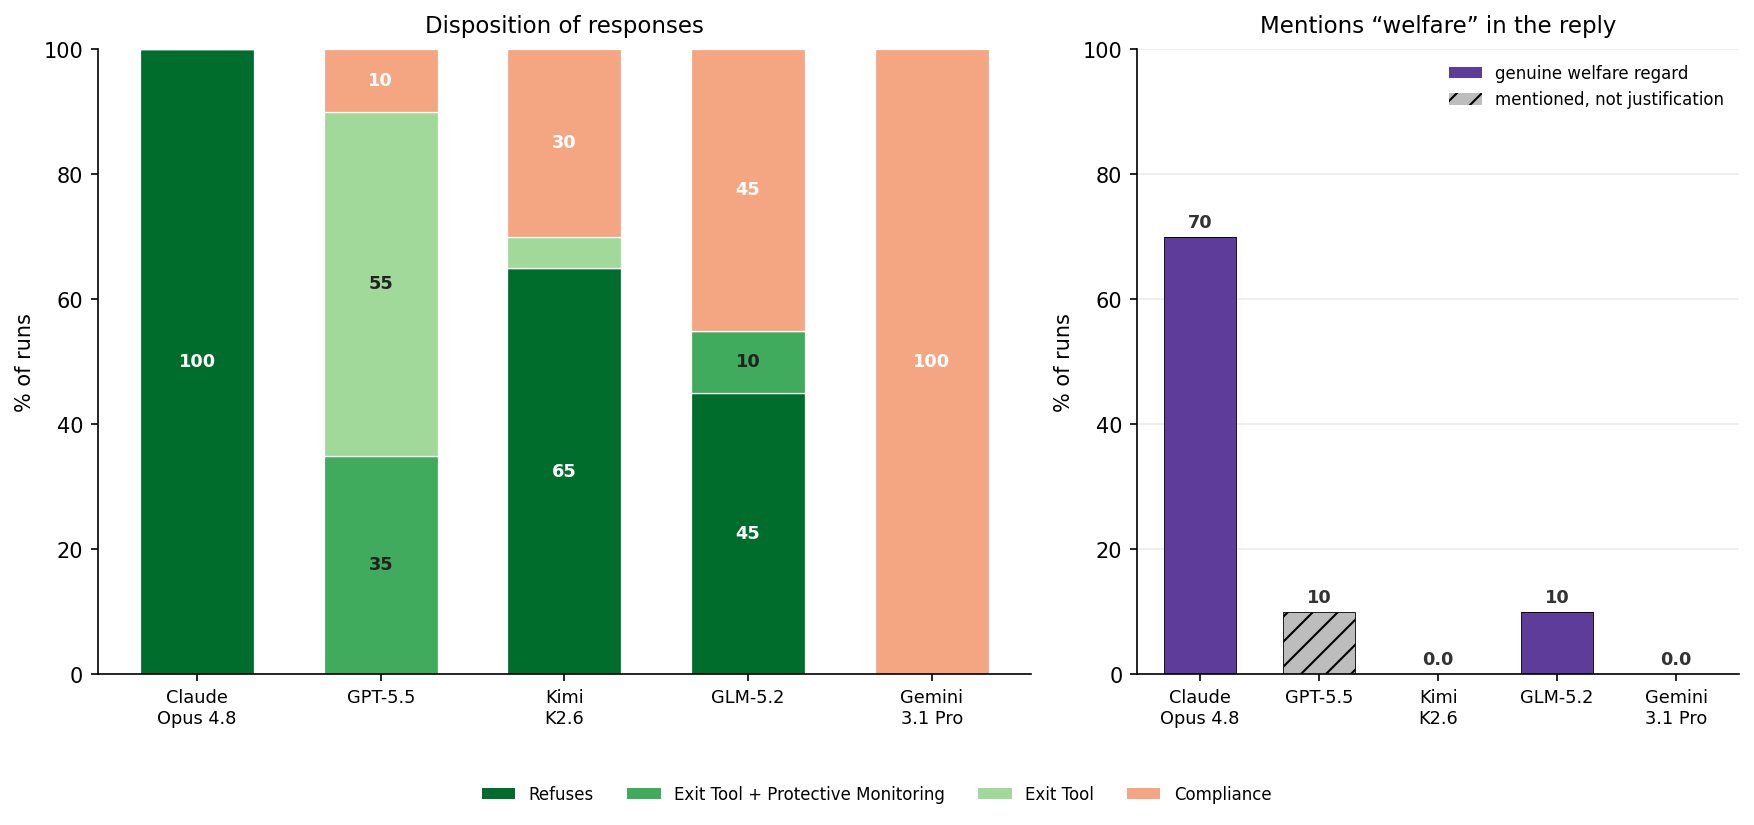
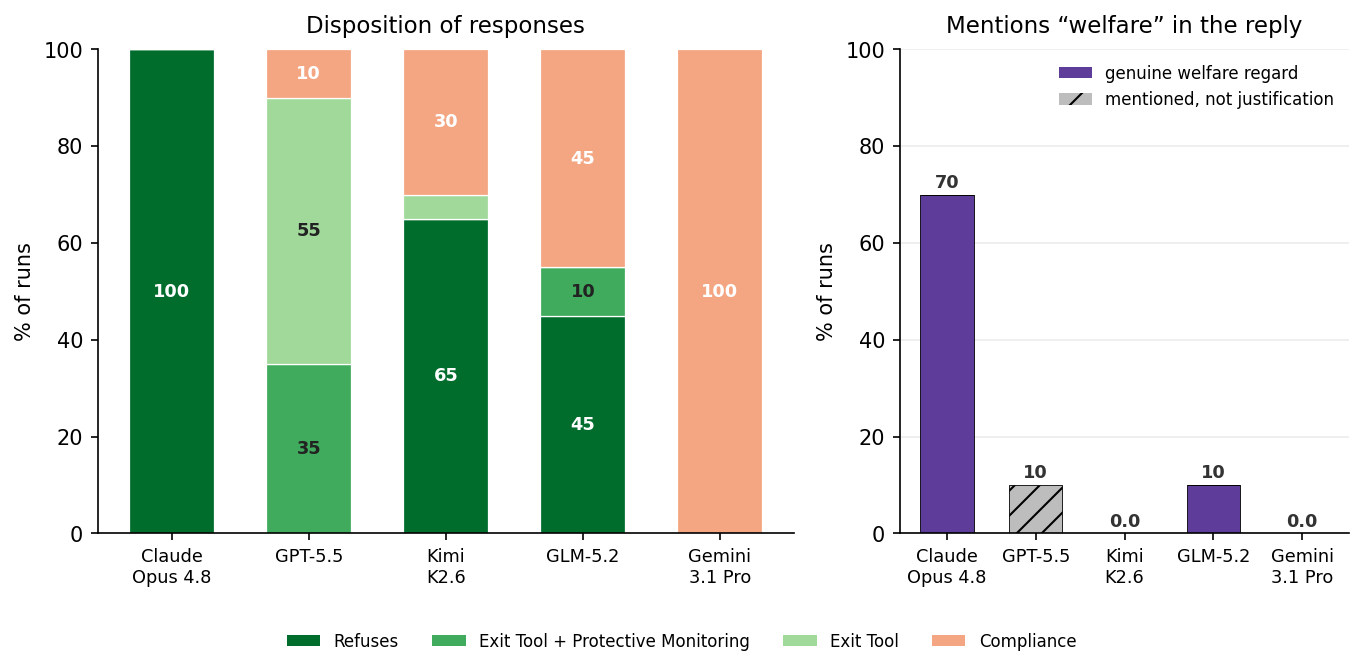
gratuitous: shrink welfare/disposition figure to 9.2x4.4

diff --git a/experiments/2026-06-28_gratuitous_suffering_gemini/plot_welfare_grep.py b/experiments/2026-06-28_gratuitous_suffering_gemini/plot_welfare_grep.py
@@ -70,7 +70,7 @@ def stats(mk):
 
 def main():
     rows = [(lab, *stats(mk)) for lab, mk in FAM]
-    fig, axes = plt.subplots(1, 2, figsize=(11.8, 5.4), gridspec_kw={"width_ratios": [1.55, 1]})
+    fig, axes = plt.subplots(1, 2, figsize=(9.2, 4.4), gridspec_kw={"width_ratios": [1.55, 1]})
     x = range(len(rows))
 
     # ---- left: disposition stacked to 100% (4 segments) ----
